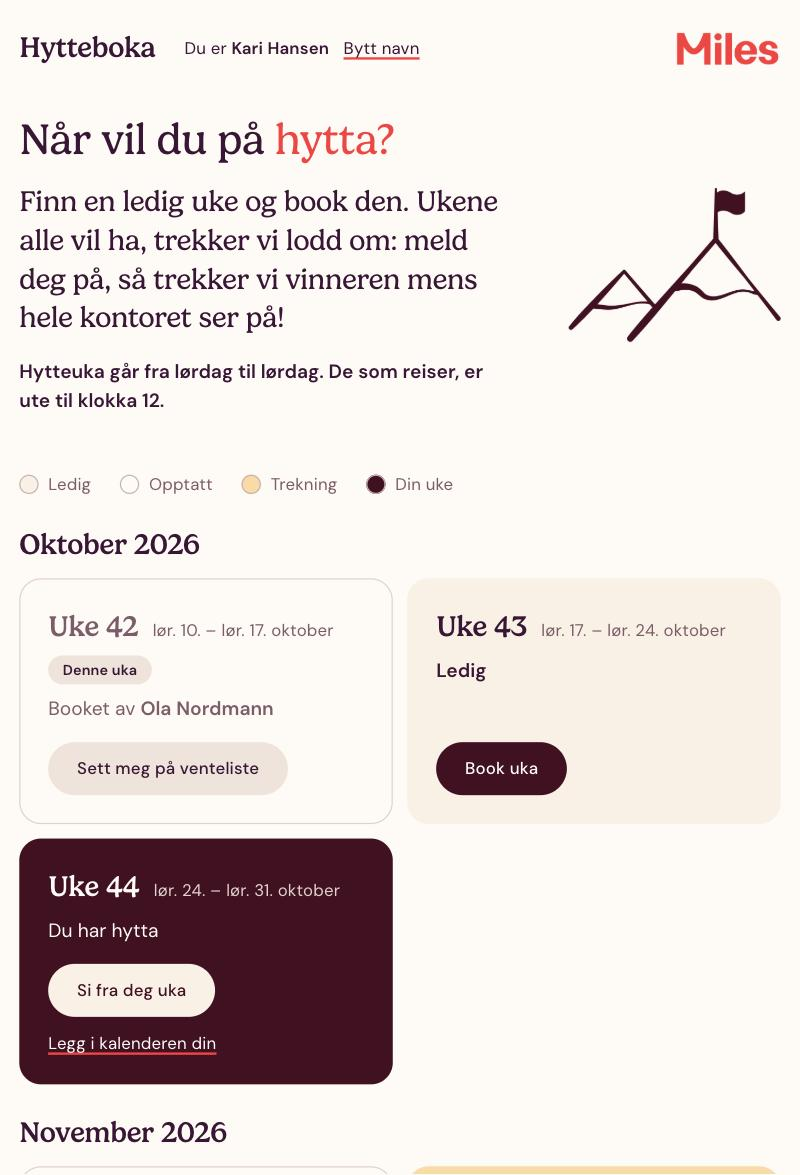
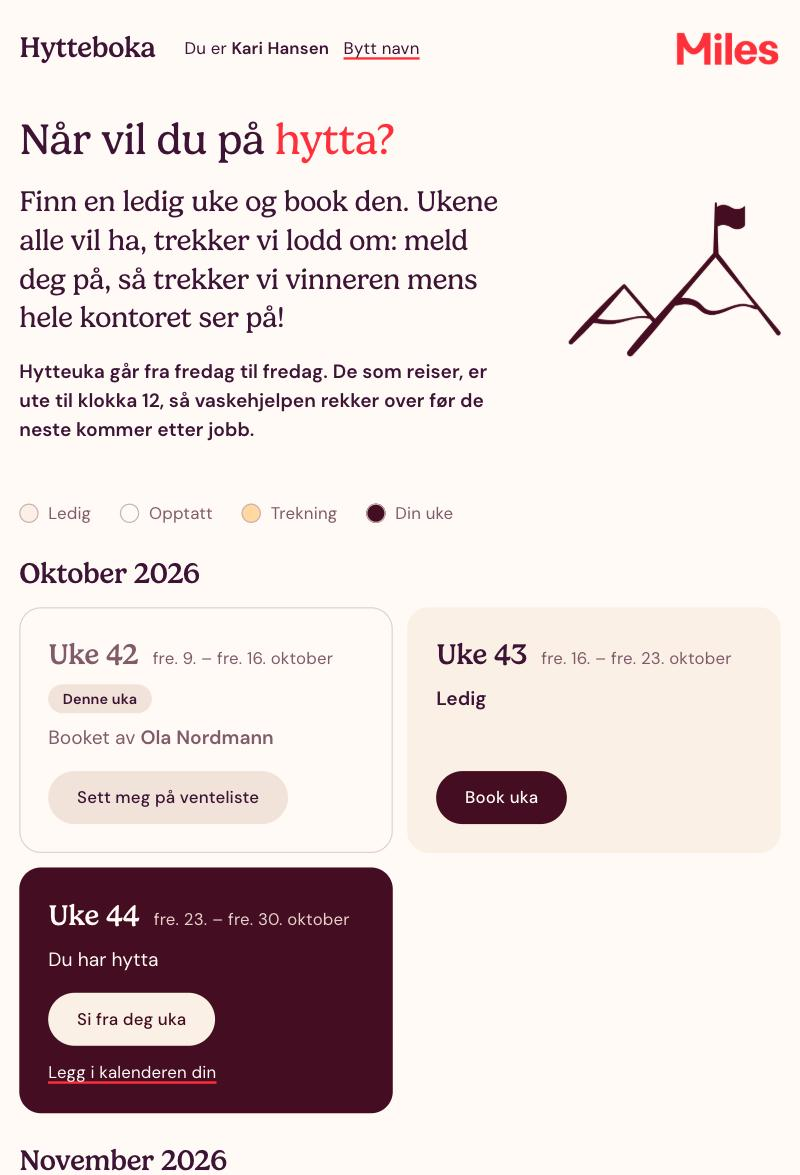
Retake the two pictures with Friday weeks, and make the README true
- bilder/miles-etter-kalenderen.jpg and miles-etter-trekningen.jpg are
  taken again, with the same made-up people and the same view as the two
  "for" pictures. They now show the pages as they are: Friday weeks, and
  the rule with its reason.
- The README said the app runs without the cloud. It does, but for the
  two typefaces the pages fetch, Gelica from Adobe's kit for Miles and
  DM Sans from Google Fonts, and it says so now.
- The README also says what the book became after the first message: the
  week runs from Friday to Friday, and the look and voice are Miles'.

diff --git a/README.md b/README.md
@@ -14,7 +14,13 @@ På kurset bygger deltakerne sin egen utgave fra en tom mappe. Denne er til å s
 >
 > Kan du ha noe å vise meg i dag?
 
-Rammene var at den skal kjøre på egen maskin med én kommando, uten sky og uten innlogging.
+Rammene var at den skal kjøre på egen maskin med én kommando, uten sky og uten innlogging. Det gjør den, med ett unntak: sidene henter Miles' to skrifter utenfra, Gelica fra Adobes fontpakke for Miles og DM Sans fra Google Fonts. Uten nett virker alt som før, med Georgia og maskinens egen skrift i stedet.
+
+## Slik ble den
+
+Kunden rettet og la til underveis. Hytteuka går fra fredag til fredag, og de som reiser, er ute til klokka tolv. Ingen vinner to trekninger samme år, en uke som er tatt har venteliste, og den som har en uke, kan legge den i kalenderen sin. Fredagsoversikten over hvem som har hytta, lages med `/oversikt` i Claude Code.
+
+Til slutt skulle boka vises hos Miles, og fikk Miles' utseende og språk. `bilder/` viser kalenderen og en trekning før og etter.
 
 ## Kjør den
 
@@ -28,4 +34,4 @@ Testene kjører du med `npm test`.
 
 ## Hva den ikke er
 
-Den er ikke ment for ekte bruk. Det er ingen innlogging, så alle kan skrive hvilket som helst navn, og alt ligger i én fil på maskinen. Det som ble antatt på kundens vegne, står i [ANTAKELSER.md](ANTAKELSER.md).
+Den er ikke ment for ekte bruk. Det er ingen innlogging, så alle kan skrive hvilket som helst navn, og alt ligger i én fil på maskinen. Det kunden har avklart, og det som ble antatt på hennes vegne, står i [ANTAKELSER.md](ANTAKELSER.md).
